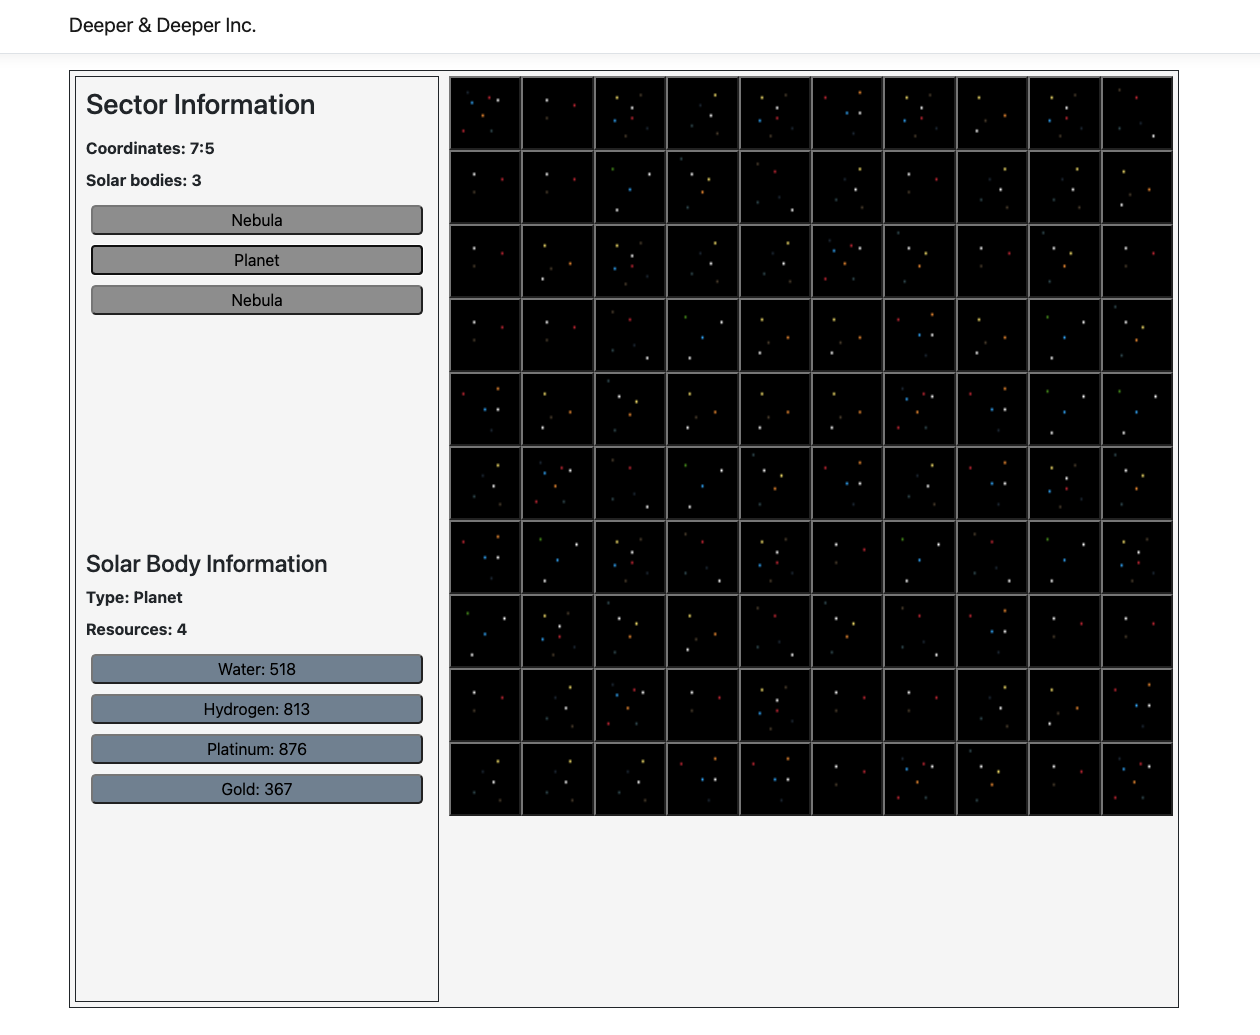
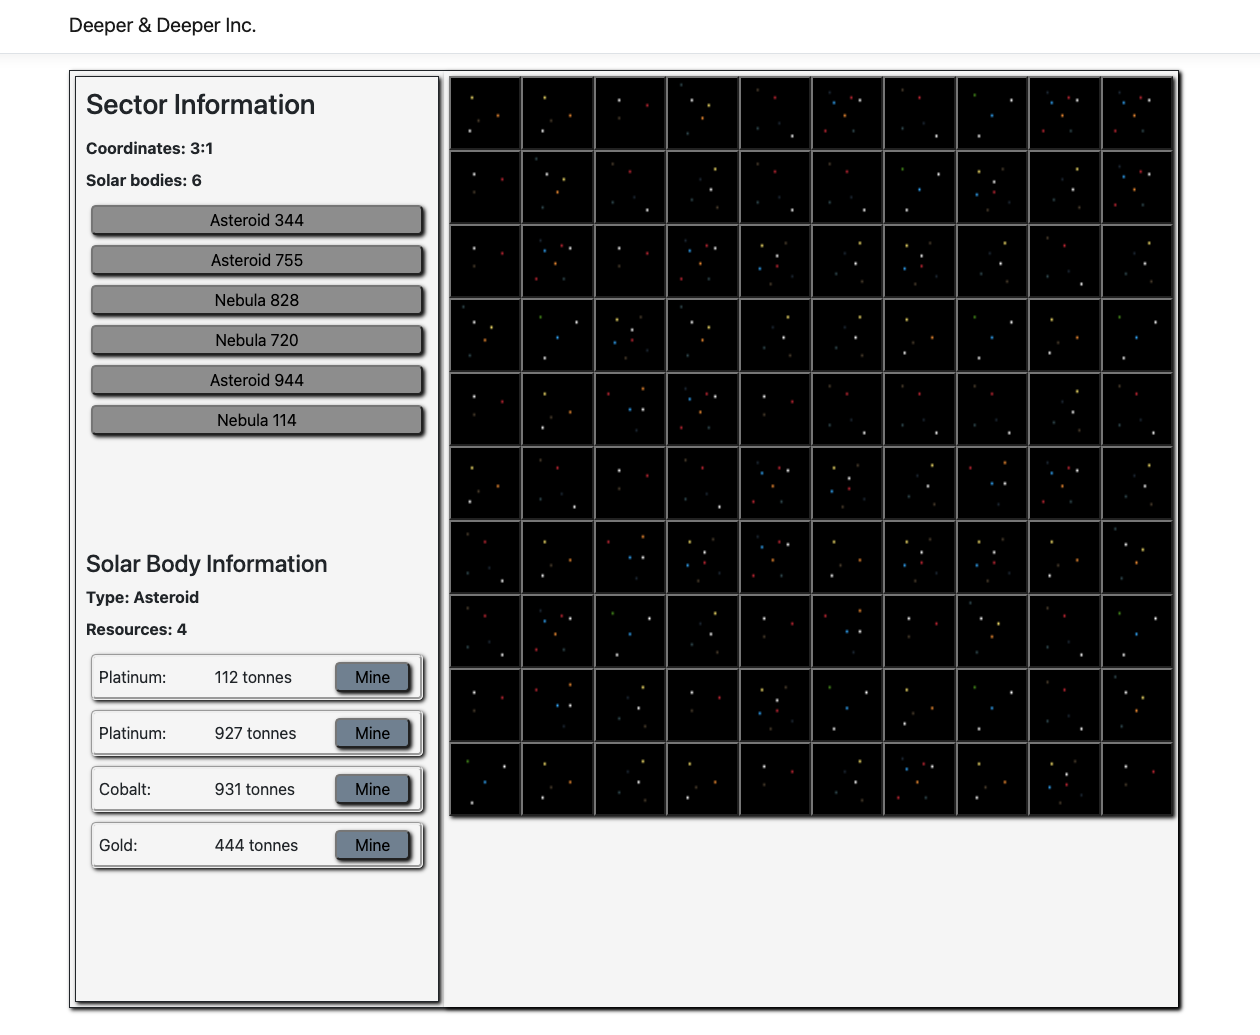
Prettify

Changed region(s): [[0.0619, 0.0618, 0.9595, 0.9894], [0.0929, 0.5565, 0.1548, 0.5874], [0.1548, 0.1237, 0.1857, 0.1546]]

diff --git a/ClientApp/src/components/SolarBodyInfo.js b/ClientApp/src/components/SolarBodyInfo.js
@@ -19,7 +19,11 @@ function SolarBodyInfo(props) {
           <label><strong>Type: {props.solarBody.typeName}</strong></label>
           <label><strong>Resources: {props.solarBody.resources.length}</strong></label>
           {props.solarBody.resources.map((resource, i) => (
-              <button className="solarBodyButton">{resource.resourceType}: {resource.amount}</button>
+            <div className="solarBody">
+              <label className="solarBodyLabel">{resource.resourceType}:</label>
+              <label className="solarBodyLabel"> {resource.amount} tonnes</label>
+              <button className="solarBodyButton">Mine</button>
+              </div>
           ))}
       </div>
     );

diff --git a/ClientApp/src/components/SolarBodyInfo.css b/ClientApp/src/components/SolarBodyInfo.css
@@ -5,8 +5,25 @@
   padding: 10px;
 }
 
+.solarBody {
+  display: flex;
+  flex-direction: row;
+  align-items: baseline;
+  border-style: groove;
+  padding: 0 5px 0 5px;
+  margin: 5px;
+  border-radius: 5px;
+  box-shadow: 2px 2px 4px black;
+}
+
+.solarBodyLabel {
+  width: 40%;
+}
+
 .solarBodyButton {
-    margin: 5px;
-    background-color: slategray;
-    border-radius: 5px;
+  margin: 5px;
+  background-color: slategray;
+  border-radius: 5px;
+  width: 80px;
+  box-shadow: 2px 2px 4px black;
 }

diff --git a/ClientApp/src/custom.css b/ClientApp/src/custom.css
@@ -5,6 +5,7 @@
   border-width: 1px;
   height: 80vh;
   background-color: whitesmoke;
+  box-shadow: 2px 2px 4px black;
 }
 
 .leftPanel {
@@ -13,12 +14,14 @@
   flex-direction: column;  
   margin: 5px;
   border-style: solid;
-  border-width: 1px;
+  border-width: 1px;  box-shadow: 2px 2px 4px black;
+
 }
 
 .rightPanel {
   flex: 2;
-  padding: 5px;
+  padding: 5px;  box-shadow: 2px 2px 4px black;
+
   /* margin: 10px; */
 }
 

diff --git a/ClientApp/src/components/SectorInfo.js b/ClientApp/src/components/SectorInfo.js
@@ -25,7 +25,7 @@ function SectorInfo(props) {
         {props.sector.solarBodies.map((sb, i) => (
             <button className="sectorInfoButton" 
             key={i}
-            onClick={() => props.solarBodySelected(sb)} >{sb.typeName}</button>
+            onClick={() => props.solarBodySelected(sb)} >{sb.typeName} {sb.id.toString()}</button>
         ))}
         </div>
       </div>

diff --git a/ClientApp/src/components/SectorInfo.css b/ClientApp/src/components/SectorInfo.css
@@ -16,5 +16,6 @@
 .sectorInfoButton {
     margin: 5px;
     background-color: rgb(141, 141, 141);
-    border-radius: 5px;
+    border-radius: 5px;  box-shadow: 2px 2px 4px black;
+
 }

diff --git a/ClientApp/src/components/SectorMap.css b/ClientApp/src/components/SectorMap.css
@@ -2,5 +2,6 @@
     display: flex;
     flex-flow: wrap;
     height: 80%;
-    width: 100%;
+    width: 100%;      box-shadow: 2px 2px 4px black;
+
 }

diff --git a/Services/SolarBody/SolarBodyService.cs b/Services/SolarBody/SolarBodyService.cs
@@ -34,11 +34,11 @@ namespace DeeperAndDeeper.Service.SolarBodyServices
             Array sbTypes = Enum.GetValues(typeof(SolarBodyType));
 
             SolarBody solarBody = new SolarBody();
-            solarBody.ID = 0;
+            solarBody.ID = rand.Next(1000);
             solarBody.Type = (SolarBodyType)sbTypes.GetValue(rand.Next(sbTypes.Length));
             solarBody.Resources = new List<Resource>();
 
-            for (int i = 0; i < rand.Next(2, 9); i++)
+            for (int i = 0; i < rand.Next(1, 7); i++)
             {
                 solarBody.Resources.Add(_resourceService.CreateResource());
             }
